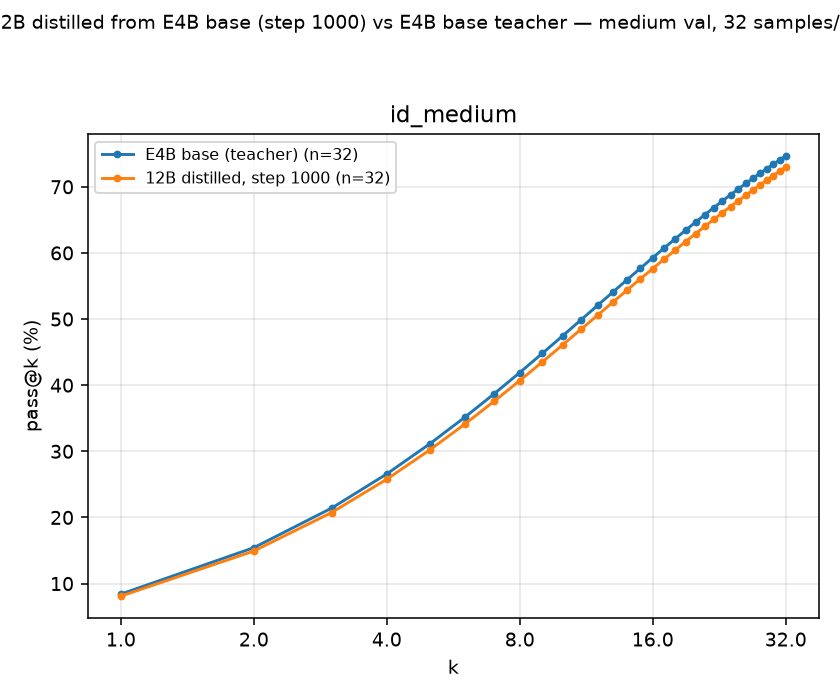
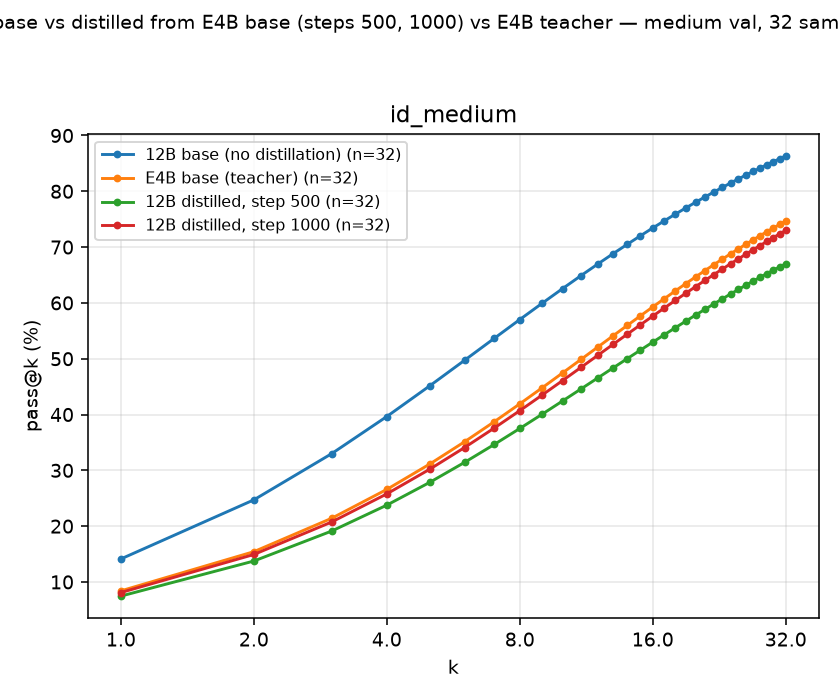
Figure: 12B base + step 500 added to the 12B-vs-teacher overlay

diff --git a/rl-distill-scripts/DISTILLATION_EXPERIMENTS.md b/rl-distill-scripts/DISTILLATION_EXPERIMENTS.md
@@ -647,7 +647,7 @@ launched yet.
 | 26B-A4B ← E4B-base medium, step 400 | 7.7 | 14.2 | 25.0 | 40.2 | 58.1 | 74.0 | 7.7 | 20.7 |
 | 26B-A4B ← E4B-base medium, step 500 | 7.8 | 14.5 | 25.1 | 40.0 | 57.2 | 73.7 | 7.8 | 17.7 |
 
-Two-curve overlay of the final 12B student vs the teacher: `figures/passk_12b_final_vs_e4b_teacher.png`.
+Overlay of the untrained 12B base, the E4B teacher and the 12B student at steps 500 and 1000: `figures/passk_12b_final_vs_e4b_teacher.png`.
 
 Untrained bases on the same band from §8 (16 samples/q, so the curve stops at k=16): 12B pass@1/2/4/8/16 =
 14.1 / 24.7 / 39.5 / 56.3 / 72.0 (mean 14.1, maj@16 29.3); 26B-A4B mean 23.8 / pass@16 86.3. Both bases are being re-run with the
